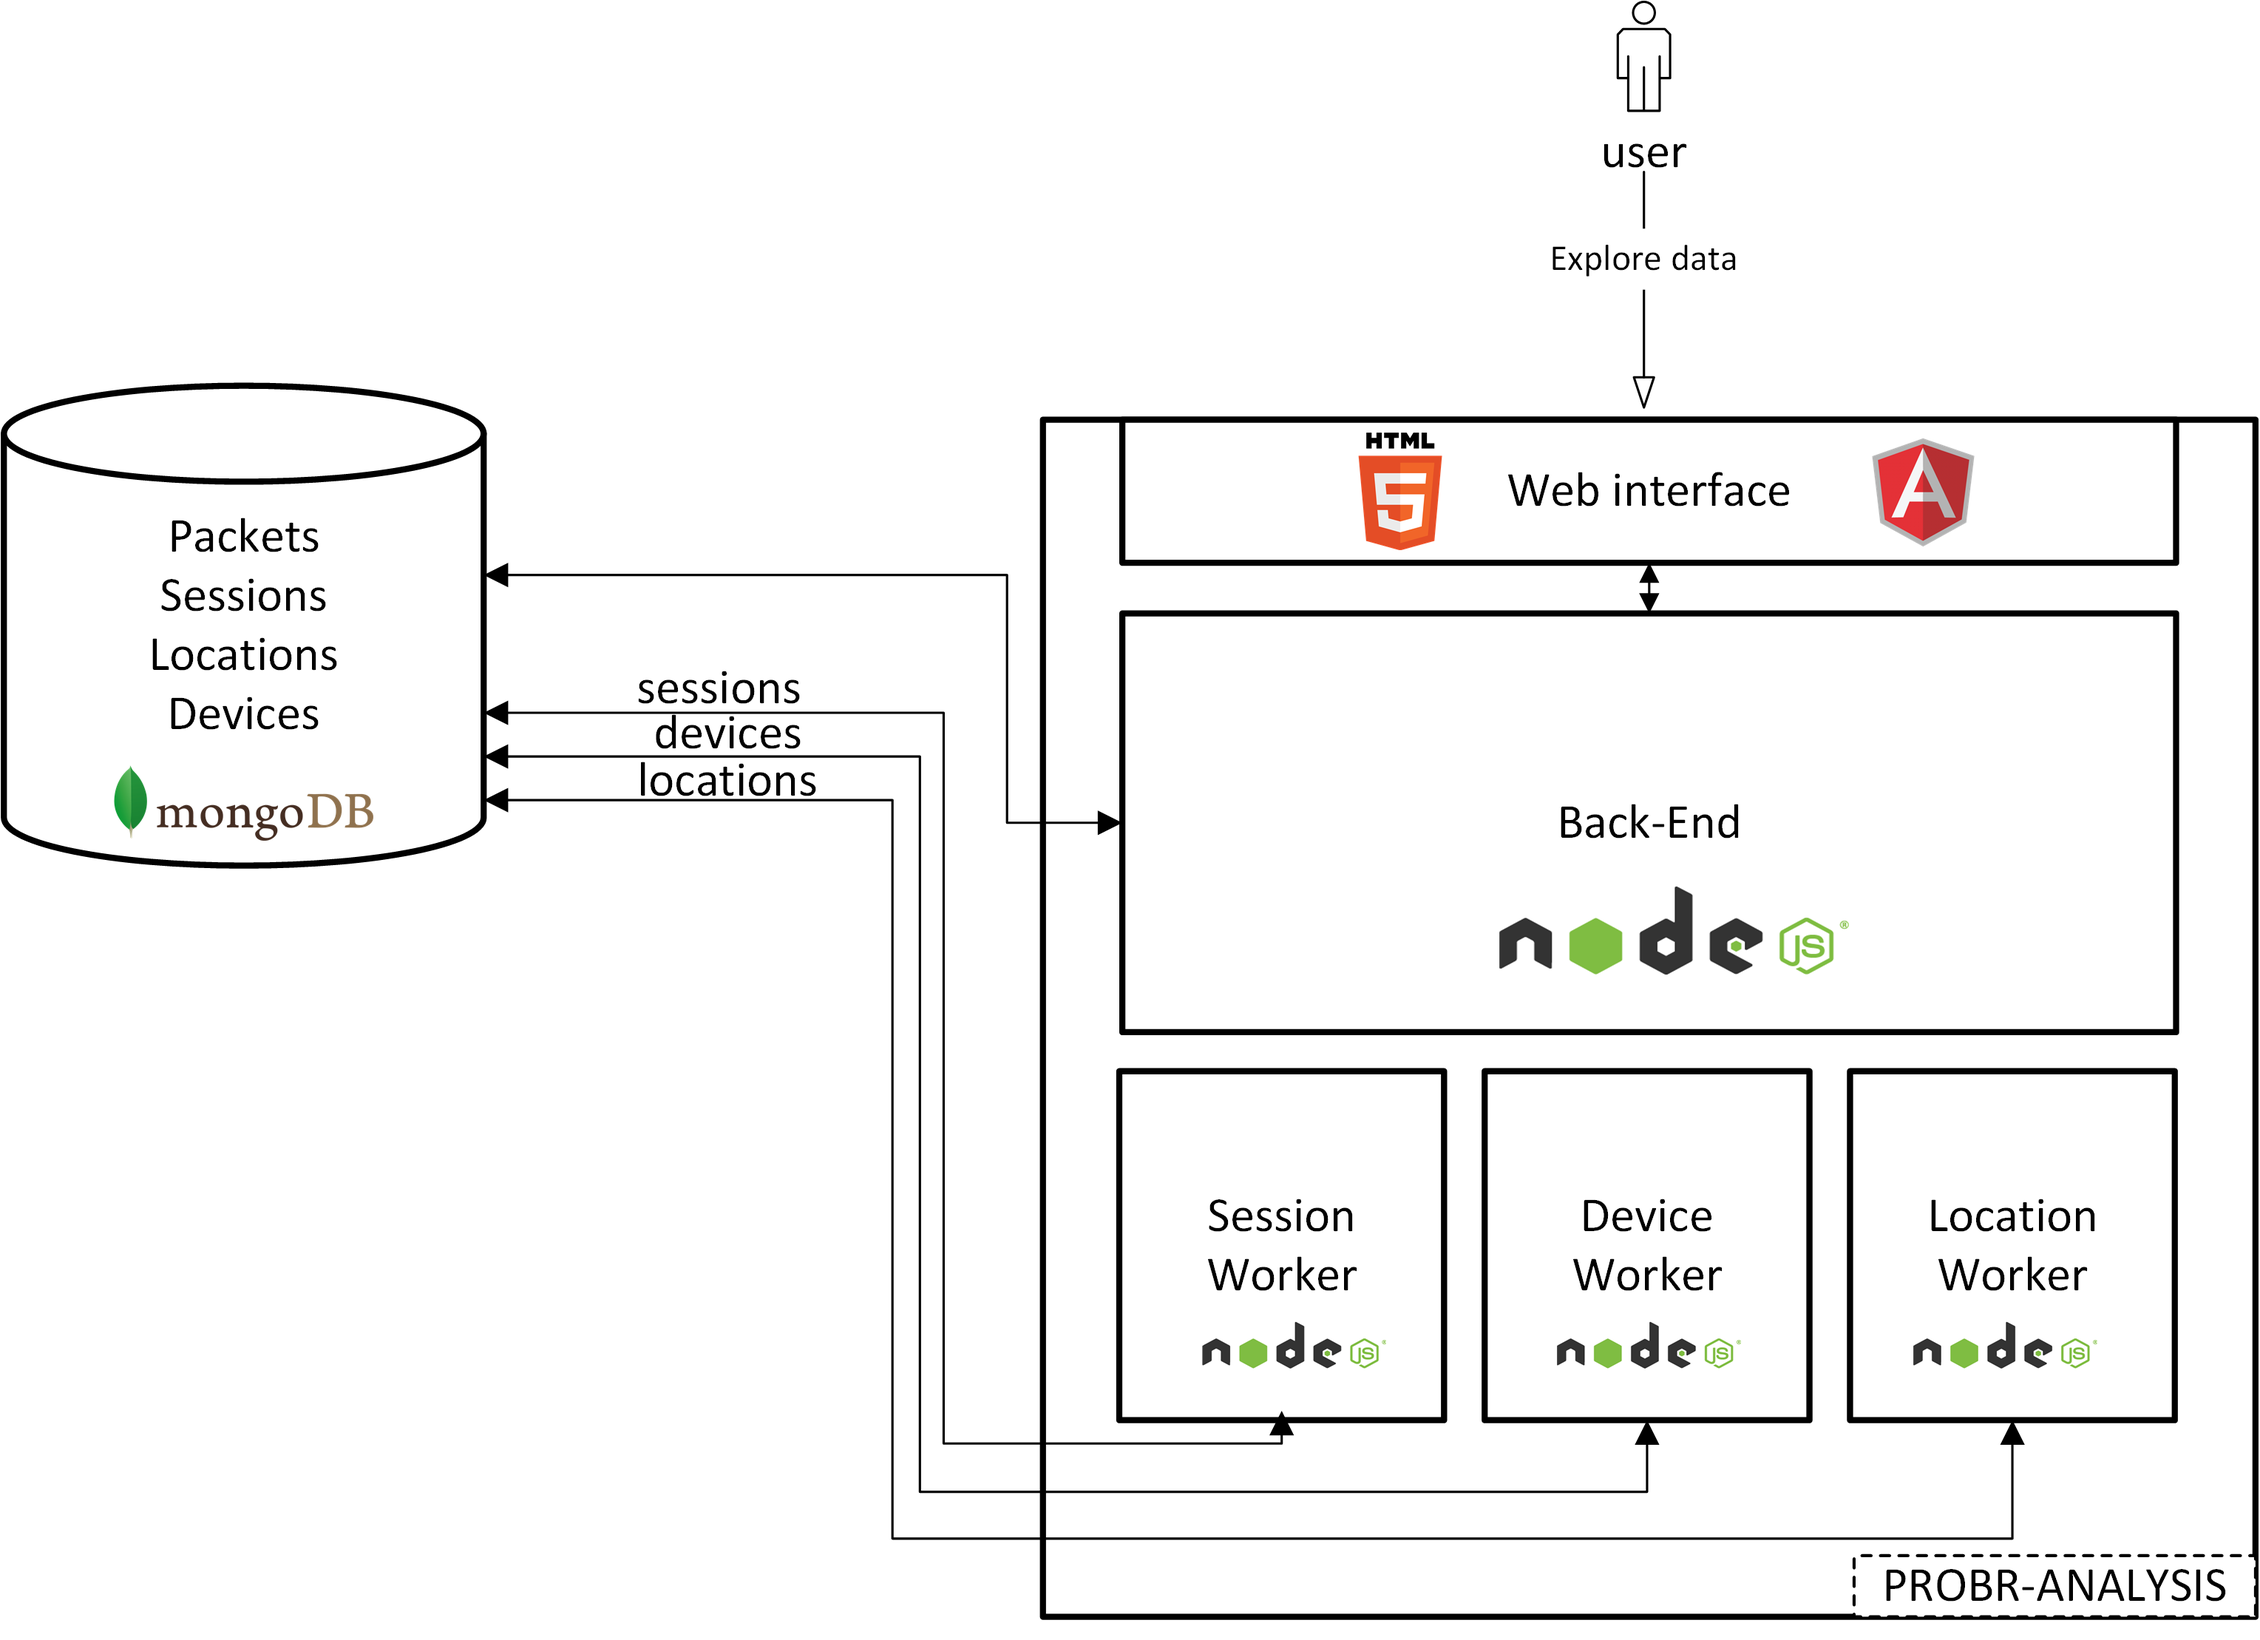
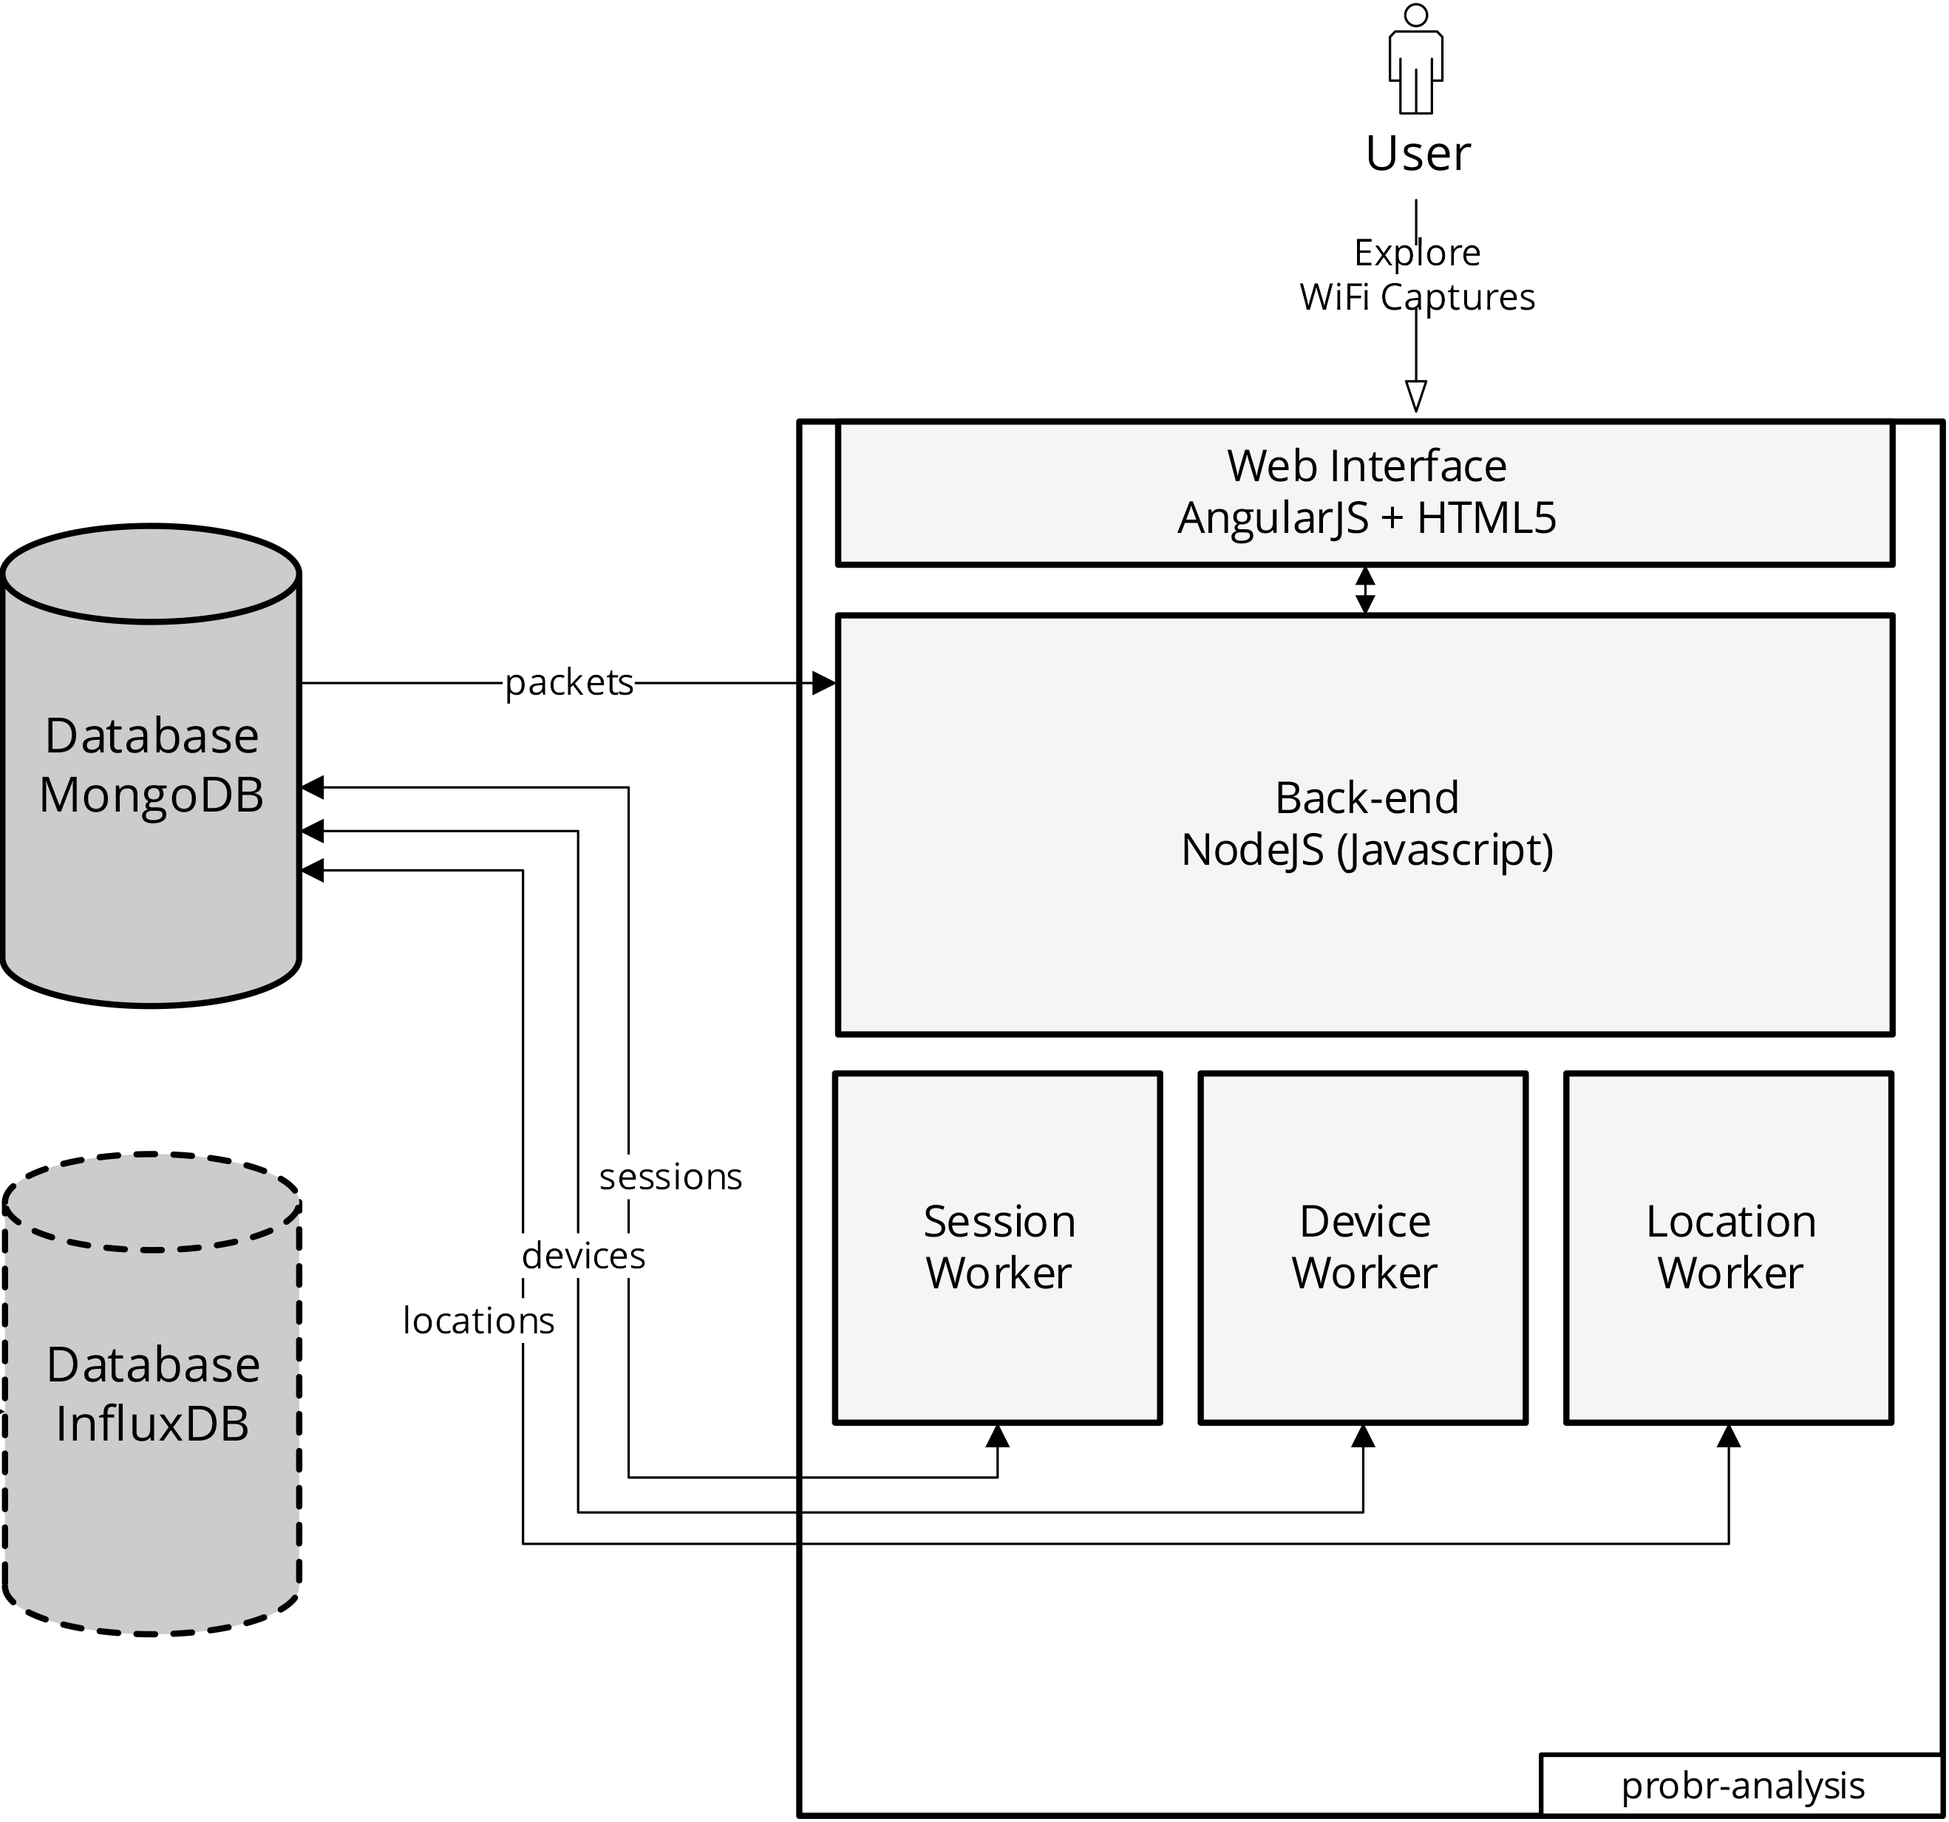
replaced architecure-diagrams, reformatted API-docs in core

diff --git a/client/app/documentation/documentation-core.html b/client/app/documentation/documentation-core.html
@@ -12,19 +12,10 @@
 
                         <li><a href="/#/docs/core#architecture">Architecture</a></li>
                         <li><a href="/#/docs/core#frontend">Front-End</a></li>
-
-                        <h3>REST API</h3>
-                        <li><a href="/#/docs/core#rest-frontend">Frontend API</a></li>
-                        <li><a href="/#/docs/core#rest-device">Devices API</a></li>
+                        <li><a href="/#/docs/core#rest">REST API</a></li>
 
                         <h3>Customizing</h3>
-                        <li><a href="/#/docs/core#authentication">Authentication</a></li>
-                        <li><a href="/#/docs/core#remote-execution">Remote execution</a></li>
-                        <li><a href="/#/docs/core#handlers">Custom handlers</a></li>
-
-                        <h3>Usage</h3>
-                        <li><a href="/#/docs/core#add-device">Add device</a></li>
-                        <li><a href="/#/docs/core#upload-capture">Upload capture</a></li>
+                        <li><a href="/#/docs/core#handlers">Handlers</a></li>
 
                     </ul>
                 </section>
@@ -62,7 +53,7 @@
                     write handlers for the data storage systems of your choice can be found <a href="#/faq">here</a>.
                 </p>
 
-                <h2><a name="frontend">Front-end</a></h2>
+                <h2><a name="frontend">Front-End</a></h2>
 
                 The web frontend is the main component the user interacts with. It is written entirely in HTML5 and JavaScript
                 (using AngularJS).
@@ -100,51 +91,18 @@
                 </ul>
 
                 <h2><a name="rest">REST API</a></h2>
-
-                The diagram below shows the endpoints of the REST API available in probr-core:
-                <br>
-
-                <img class="doc-img img-responsive" src="assets/images/rest_core.png"/>
-
-                <h3><a name="rest-frontend">Frontend API</a></h3>
-
+                <h3>Authentication</h3>
                 <p>
-                    The endpoints starting with api/ are accessed by the probr-core web frontend. Those can only be accessed with a
-                    valid
-                    JSON WebToken (JWT). The JWT authentication is integrated with the Django user administration. For more info,
-                    check out
-                    the respective <a href="http://getblimp.github.io/django-rest-framework-jwt/">pip module</a>.
+                    Probr-core uses standard <a href="http://jwt.io/" target="_blank">JSON Web Token Authentication</a> to enable protected REST-Endpoints being queried. Further information can be
+                    found in the documentation of the plugin
+                    developer <a href="http://getblimp.github.io/django-rest-framework-jwt/" target="_blank">Django REST Framework JWT</a>
+                    as well as in their repository on <a href="https://github.com/GetBlimp/django-rest-framework-jwt" target="_blank">Github</a>.
                 </p>
 
-                <h3>Devices</h3>
-                <small>
-                    <pre><code>GET: /api/device | [{device1},{device2},{device3}...]</code></pre>
-                    <pre><code>POST: /api/device | Payload: {JSON-Device}</code></pre>
-                    <pre><code>GET: /api/device/{device-uuid} | {device}</code></pre>
-                    <pre><code>PUT: /api/device/{device-uuid} | Payload: {JSON-Device}</code></pre>
-                    <pre><code>DELETE: /api/device/{device-uuid}</code></pre>
-                </small>
-
-                <h3>Statuses</h3>
-                <small>
-                    <pre><code>GET: /api/statuses/ | [{status1},{status2},{status3}...]</code></pre>
-                </small>
-
-                <h3>Commands</h3>
-                <small>
-                    <pre><code>GET: /api/commands/ | [{command1},{command2},{command3}...]</code></pre>
-                    <pre><code>POST: /api/commands/ | Payload: {JSON-Status}</code></pre>
-                    <pre><code>GET: /api/commands/{command-uuid} | {command}</code></pre>
-                    <pre><code>PUT: /api/commands/{command-uuid} | Payload: {JSON-Status}</code></pre>
-                </small>
-
-                <h3>Command Templates</h3>
-                <small>
-                    <pre><code>GET: /api/commandtemplates/ | [{commandtemplate1},{commandtemplate2},{commandtemplate3}...]</code></pre>
-                    <pre><code>POST: /api/commandtemplates/ | Payload: {JSON-CommandTemplate}</code></pre>
-                    <pre><code>GET: /api/commandtemplates/{commandtemplates-uuid} | {commandtemplate}</code></pre>
-                    <pre><code>PUT: /api/commandtemplates/{commandtemplates-uuid} | Payload: {JSON-CommandTemplate}</code></pre>
-                </small>
+                <rest-api name="'Devices'" methods="['GET', 'GET/LIST', 'POST', 'PUT', 'DELETE']" , payload="deviceObj" path="'/api/device/:device-uuid'"></rest-api>
+                <rest-api name="'Statuses'" methods="['GET/LIST']" , payload="statusObj" path="'/api/statuses?device=device-uuid'"></rest-api>
+                <rest-api name="'Commands'" methods="['GET','GET/LIST','POST','PUT']" , payload="commandObj" path="'/api/commands/:command-uuid'"></rest-api>
+                <rest-api name="'Templates'" methods="['GET','GET/LIST','POST','PUT']" , payload="templateObj" path="'/api/commandtemplates/:commandtemplate-uuid'"></rest-api>
 
                 <h3><a name="rest-devices">Devices API</a></h3>
 
@@ -155,34 +113,13 @@
                     wizard in the web frontend. Registering a new device is only possible if the user is logged in via Django user administration/JWTAuth.
                 </p>
 
-                <h3>Captures</h3>
-                <small>
-                    <pre><code>POST: /api-device/captures | Payload: Capture</code></pre>
-                </small>
+                <rest-api name="'Captures'" methods="['POST']" , payload="deviceCaptureObj" path="'/api-device/captures'"></rest-api>
+                <rest-api name="'Statuses'" methods="['GET','POST']" , payload="deviceStatusObj" path="'/api-device/statuses'"></rest-api>
+                <rest-api name="'Commands'" methods="['GET','POST','PUT']" , payload="deviceCommandObj" path="'/api-device/commands'"></rest-api>
 
-                <h3>Statuses</h3>
-                <small>
-                    <pre><code>GET: /api-device/statuses/ | [{statuses1},{statuses2},{statuses3}...]</code></pre>
-                    <pre><code>POST: /api-device/statuses/ | Payload: {JSON-Status}</code></pre>
-                </small>
-
-                <h3>Commands</h3>
-                <small>
-                    <pre><code>GET: /api-device/commands/ | [{commands1},{commands2},{commands3}...]</code></pre>
-                    <pre><code>POST: /api-device/commands/ | Payload: {JSON-Command}</code></pre>
-                    <pre><code>PUT: /api-device/commands/{command-uuid} | Payload: {JSON-Command}</code></pre>
-                </small>
-
-                <h2><a name="authentication">Authentication</a></h2>
-
-                <h2><a name="remote-execution">Remote command execution</a></h2>
-
-                <h2><a name="handlers">Writing custom handlers</a></h2>
-
-                <h2><a name="usage">Usage samples</a></h2>
-
+                <h2><a name="handlers">Handlers</a></h2>
                 <p>
-                    See <a ui-sref="usage-core">Usage-Core</a> for more details;
+
                 </p>
 
             </div>

diff --git a/client/app/documentation/documentation.controller.js b/client/app/documentation/documentation.controller.js
@@ -7,6 +7,35 @@ angular.module('probrSiteApp')
     })
     .controller('DocumentationCoreCtrl', function ($scope, $http) {
 
+        var listTemplate = {
+            "count": 2,
+            "next": null,
+            "previous": null,
+        };
+
+        $scope.jwtObj = {username: '', password: ''};
+
+        $scope.deviceObj = {};
+        $scope.deviceObj['GET'] = 'Device Object';
+        $scope.deviceObj['GET/LIST'] = angular.extend(listTemplate, {results: ['Device Object #1', 'Device Object #2']});
+
+        $scope.statusObj = {};
+        $scope.statusObj['GET'] = 'Status Object';
+        $scope.statusObj['GET/LIST'] = angular.extend(listTemplate, {results: ['Status Object #1', 'Status Object #2']});
+
+        $scope.commandObj = {};
+        $scope.commandObj['GET'] = 'Command Object';
+        $scope.commandObj['GET/LIST'] = angular.extend(listTemplate, {results: ['Command Object #1', 'Command Object #2']});
+
+        $scope.templateObj = {};
+        $scope.templateObj['GET'] = 'Template Object';
+        $scope.templateObj['GET/LIST'] = angular.extend(listTemplate, {results: ['Template Object #1', 'Template Object #2']});
+
+        $scope.deviceCaptureObj = {};
+        $scope.deviceStatusObj = {};
+        $scope.deviceCommandObj = {};
+
+
 
     })
     .controller('DocumentationAnalysisCtrl', function ($scope, $http) {

diff --git a/client/components/directives/restApi.directive.js b/client/components/directives/restApi.directive.js
@@ -1,0 +1,30 @@
+'use strict';
+
+angular.module('probrSiteApp')
+    .directive("restApi", function restApi() {
+        return {
+            scope: {
+                methods: "=",
+                path: "=",
+                payload: "=",
+                name: "="
+            },
+            templateUrl: 'components/directives/restApi.html',
+            link: function restApi(scope, element) {
+                scope.displayedMethod = scope.methods[0];
+                scope.switch = function (method) {
+                    scope.displayedMethod = method;
+                }
+            }
+        };
+    })
+    .filter('trimByMethod', function () {
+        return function trimByMethod(path, method) {
+            if (method == 'POST' || method == 'GET/LIST') {
+                if (path.indexOf(':') > -1) {
+                    return path.substr(0, path.indexOf(':'));
+                }
+            }
+            return path;
+        };
+    });

diff --git a/client/index.html b/client/index.html
@@ -76,7 +76,9 @@
       <script src="app/usage/usage.js"></script>
       <script src="app/usecase/usecase.controller.js"></script>
       <script src="app/usecase/usecase.js"></script>
+      <script src="components/directives/restApi.directive.js"></script>
       <script src="components/directives/stickyNav.directive.js"></script>
+      <script src="components/filters/prettyJSON.filter.js"></script>
       <script src="components/footer/footer.directive.js"></script>
       <script src="components/modal/modal.service.js"></script>
       <script src="components/navbar/navbar.controller.js"></script>

diff --git a/client/components/directives/restApi.html b/client/components/directives/restApi.html
@@ -1,0 +1,6 @@
+<h3>{{name}}</h3>
+<p>
+    <span class="label" style="margin-right: 3px" ng-class="{'label-primary': method == 'GET' || method == 'GET/LIST', 'label-info': method == 'POST' || method == 'PUT', 'label-danger': method == 'DELETE', 'active-label': method == displayedMethod }" ng-repeat="method in methods"><a ng-click="switch(method)">{{method}}</a></span>
+    <pre><code><small>{{path | trimByMethod : displayedMethod}}</small></code></pre>
+    <pre ng-show="payload[displayedMethod]"><code><small>{{payload[displayedMethod] | prettyJSON }}</small></code></pre>
+</p>

diff --git a/client/components/filters/prettyJSON.filter.js b/client/components/filters/prettyJSON.filter.js
@@ -1,0 +1,10 @@
+'use strict';
+
+angular.module('probrSiteApp')
+    .filter('prettyJSON', function () {
+        function prettyPrintJson(json) {
+            return JSON ? JSON.stringify(json, null, '  ') : 'your browser doesnt support JSON so cant pretty print';
+        }
+
+        return prettyPrintJson;
+    });

diff --git a/client/app/app.less b/client/app/app.less
@@ -91,6 +91,7 @@ h2 {
 @import 'overview/overview.less';
 @import 'usage/usage.less';
 @import 'usecase/usecase.less';
+@import '../components/directives/restApi.less';
 @import '../components/footer/footer.less';
 @import '../components/modal/modal.less';
 @import '../components/particlesjs/particlesjs.less';

diff --git a/client/components/directives/restApi.less b/client/components/directives/restApi.less
@@ -1,0 +1,12 @@
+.active-label {
+  border: 2px solid @brand-gray-dark;
+}
+
+.label {
+  a {
+    color: @brand-gray-light;
+  }
+  a:hover {
+    color: @brand-gray-dark;
+  }
+}
